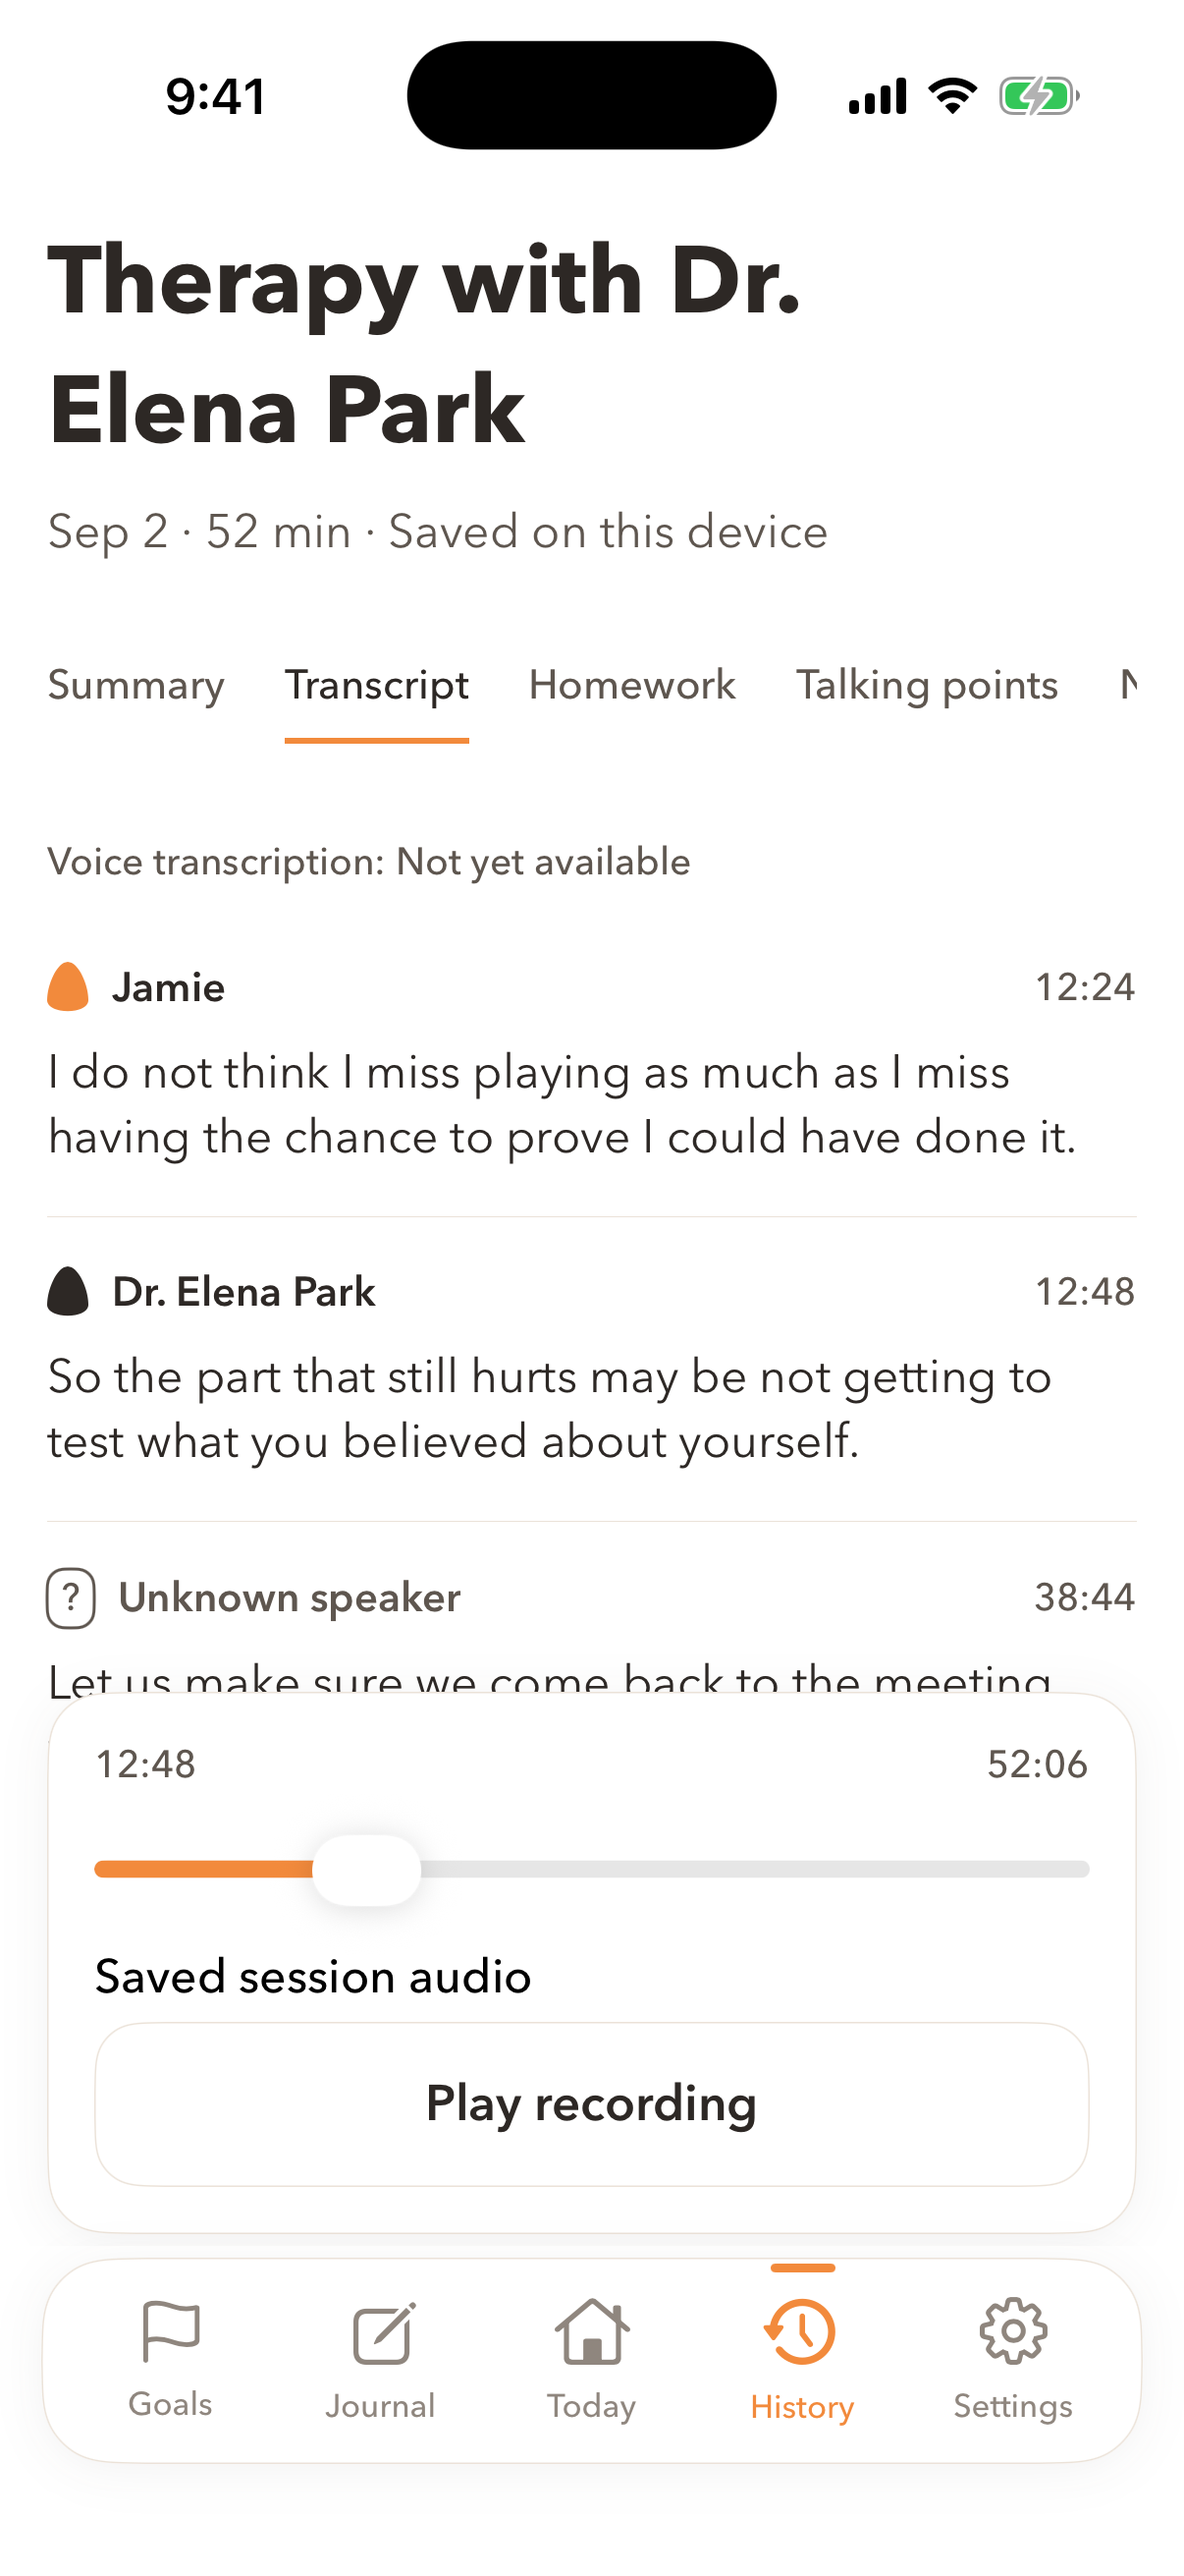
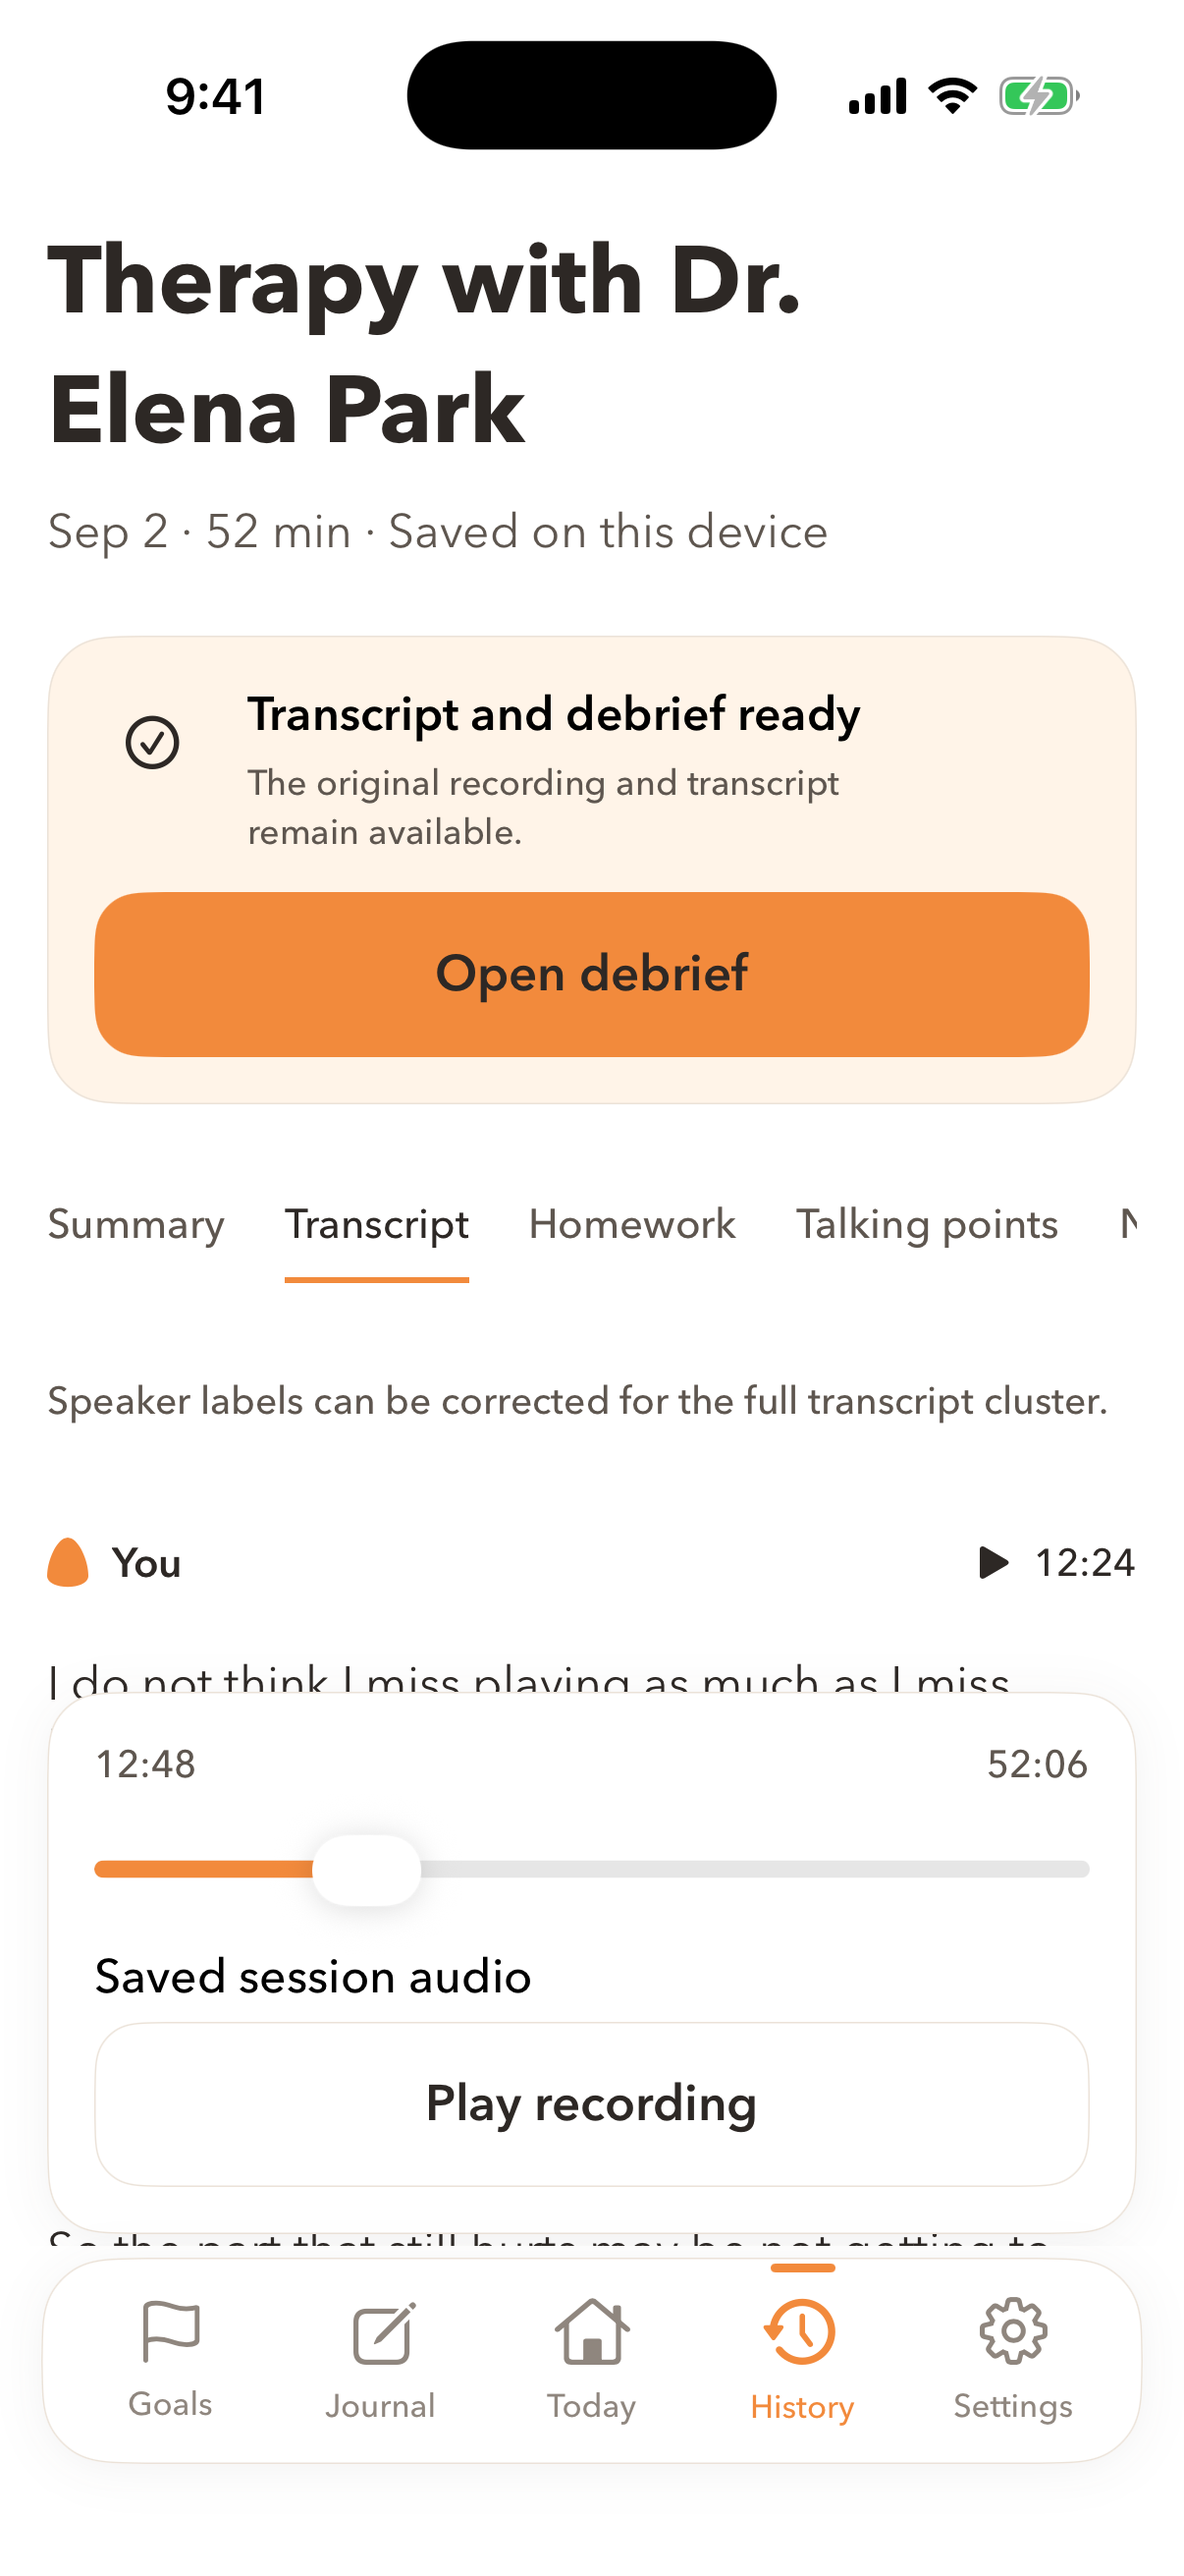
Phase 4b host fixes: replaced recordings reprocess, debrief route registered in navigation tests
A ready or consent-waiting processing record no longer blocks a replaced recording; the
gate now checks for a checkpoint that belongs to the current attachment. 259 tests, 41 suites.

diff --git a/apps/candycorn-ios/CandyCorn/Services/Speech/SessionProcessingCoordinator.swift b/apps/candycorn-ios/CandyCorn/Services/Speech/SessionProcessingCoordinator.swift
@@ -133,8 +133,21 @@ actor SessionProcessingCoordinator: SessionProcessing {
     ) async {
         guard let snapshot = try? await careStore.snapshot() else { return }
         if let record = snapshot.sessionProcessing.first(where: { $0.appointmentID == appointmentID }) {
-            if record.stage == .ready { return }
-            if record.failure != nil, !allowsFailedRetry { return }
+            // A ready record only counts if its artifacts belong to the appointment's current
+            // recording. A replaced recording has no checkpoint yet and must run again.
+            let currentAttachment = snapshot.appointments.first { $0.id == appointmentID }?.recordingAttachmentID
+            let checkpointed = currentAttachment.map { attachmentID in
+                let sources = [appointmentID, attachmentID]
+                return snapshot.artifacts.contains {
+                    ($0.kind == .transcript || $0.kind == .diarization || $0.kind == .sessionSummary)
+                        && sources.allSatisfy($0.sourceIDs.contains)
+                }
+            } ?? true
+            // No checkpoint for the current recording means it was replaced: always process.
+            if checkpointed {
+                if record.stage == .ready { return }
+                if record.failure != nil, !allowsFailedRetry { return }
+            }
         }
         await process(appointmentID: appointmentID, token: token)
     }

diff --git a/apps/candycorn-ios/CandyCornTests/NavigationIntegrationTests.swift b/apps/candycorn-ios/CandyCornTests/NavigationIntegrationTests.swift
@@ -22,7 +22,7 @@ struct NavigationIntegrationTests {
             .goals: .goals, .bringUp: .goals,
             .journal: .journal, .capture: .journal, .journalVoice: .journal, .journalWrite: .journal,
             .journalPhoto: .journal, .journalDetail: .journal, .journalSuggestions: .journal,
-            .therapySession: .history, .tmsPost: .history, .history: .history, .search: .history,
+            .therapySession: .history, .tmsPost: .history, .history: .history, .search: .history, .sessionDebrief: .history,
             .settings: .settings, .settingsPrivacy: .settings, .settingsAI: .settings, .settingsData: .settings,
         ]
         let unowned: Set<Route> = [.welcome, .recordAppointment, .activeAppointment]
@@ -44,10 +44,10 @@ struct NavigationIntegrationTests {
             .today, .goals, .journal, .history, .settings,
             .journalDetail, .journalSuggestions, .bringUp,
             .appointments, .therapySession, .prepareTherapy, .prepareTMS,
-            .search, .settingsPrivacy, .settingsAI, .settingsData,
+            .search, .settingsPrivacy, .settingsAI, .settingsData, .sessionDebrief,
         ]
 
-        #expect(visible.count == 16)
+        #expect(visible.count == 17)
         for route in Route.allCases {
             #expect(route.showsFloatingTabBar == visible.contains(route))
         }
